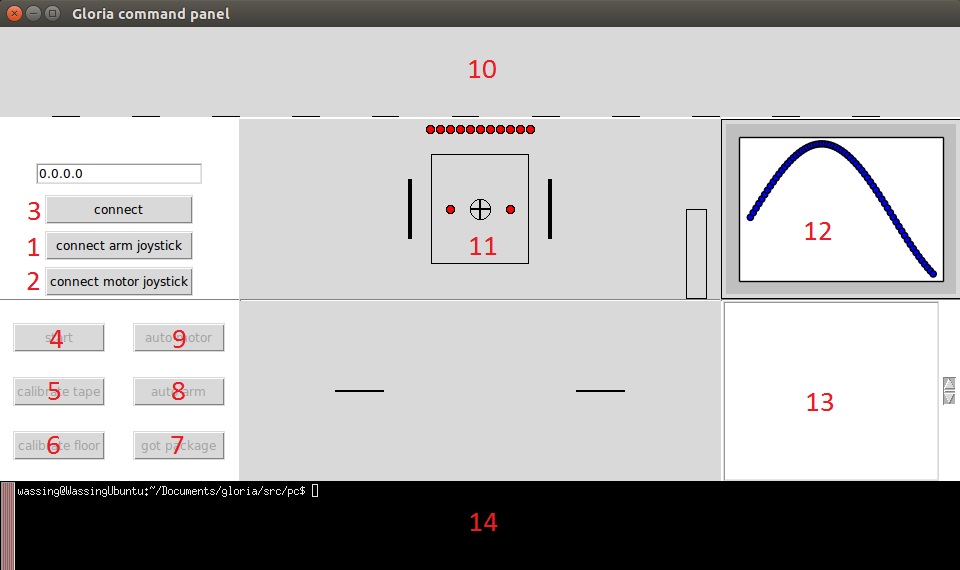
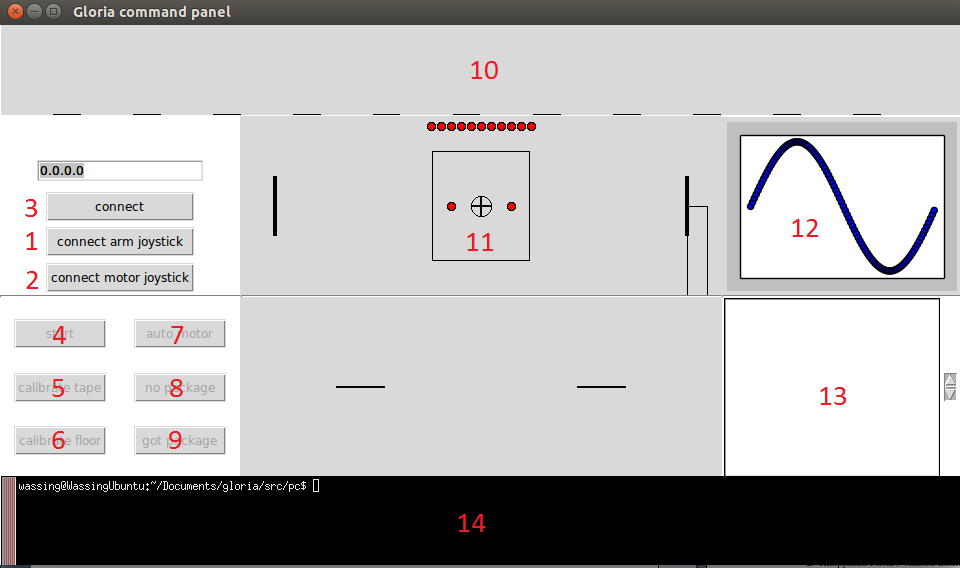
Updated with finished GUI picture, did a few spellchecks, removed auto arm description and replaced with no package

diff --git a/dokumentation/anvandarhandledning/tex/anvhandledning-styrning.tex b/dokumentation/anvandarhandledning/tex/anvhandledning-styrning.tex
@@ -24,9 +24,9 @@ Väl inne i Gui.py så ser du ett antal saker på skärmen (se figur 1).
 		\item start: Startar Glorias mainloop, behöver göras innan några andra kommandon kan accepteras (markerat 4 i figur 1).
 		\item calibrate tape: Kalibrerar sensorvärdet för tejp (markerat 5 i figur 1).
 		\item calibrate floor: Kalibrerar sensorvärdet för golv (markerat 6 i figur 1).
-		\item got package: Signalerar till Gloria att man är klar med att plocka upp ett packet med Joysticken (markerat 7 i figur 1).
-		\item auto motor: Sätter motorerna i autonomt läge, vilket får Gloria att köra av sig själv givet sensordata (markerat 8 i figur 1).
-		\item auto arm: Sätter armen i autonomt läge (markerat 9 i figur 1).
+		\item auto motor: Sätter motorerna i autonomt läge, vilket får Gloria att köra av sig själv givet sensordata (markerat 7 i figur 1).		
+		\item no package: Signalerar till gloria att man ej har ett paket längre (markerat 8 i figur 1).
+		\item got package: Signalerar till Gloria att man är klar med att plocka upp ett paket med Joysticken (markerat 9 i figur 1).
 	\end{itemize}
 \end{enumerate}
 \subsection{Styrning av Gloria via gränssnittet}
